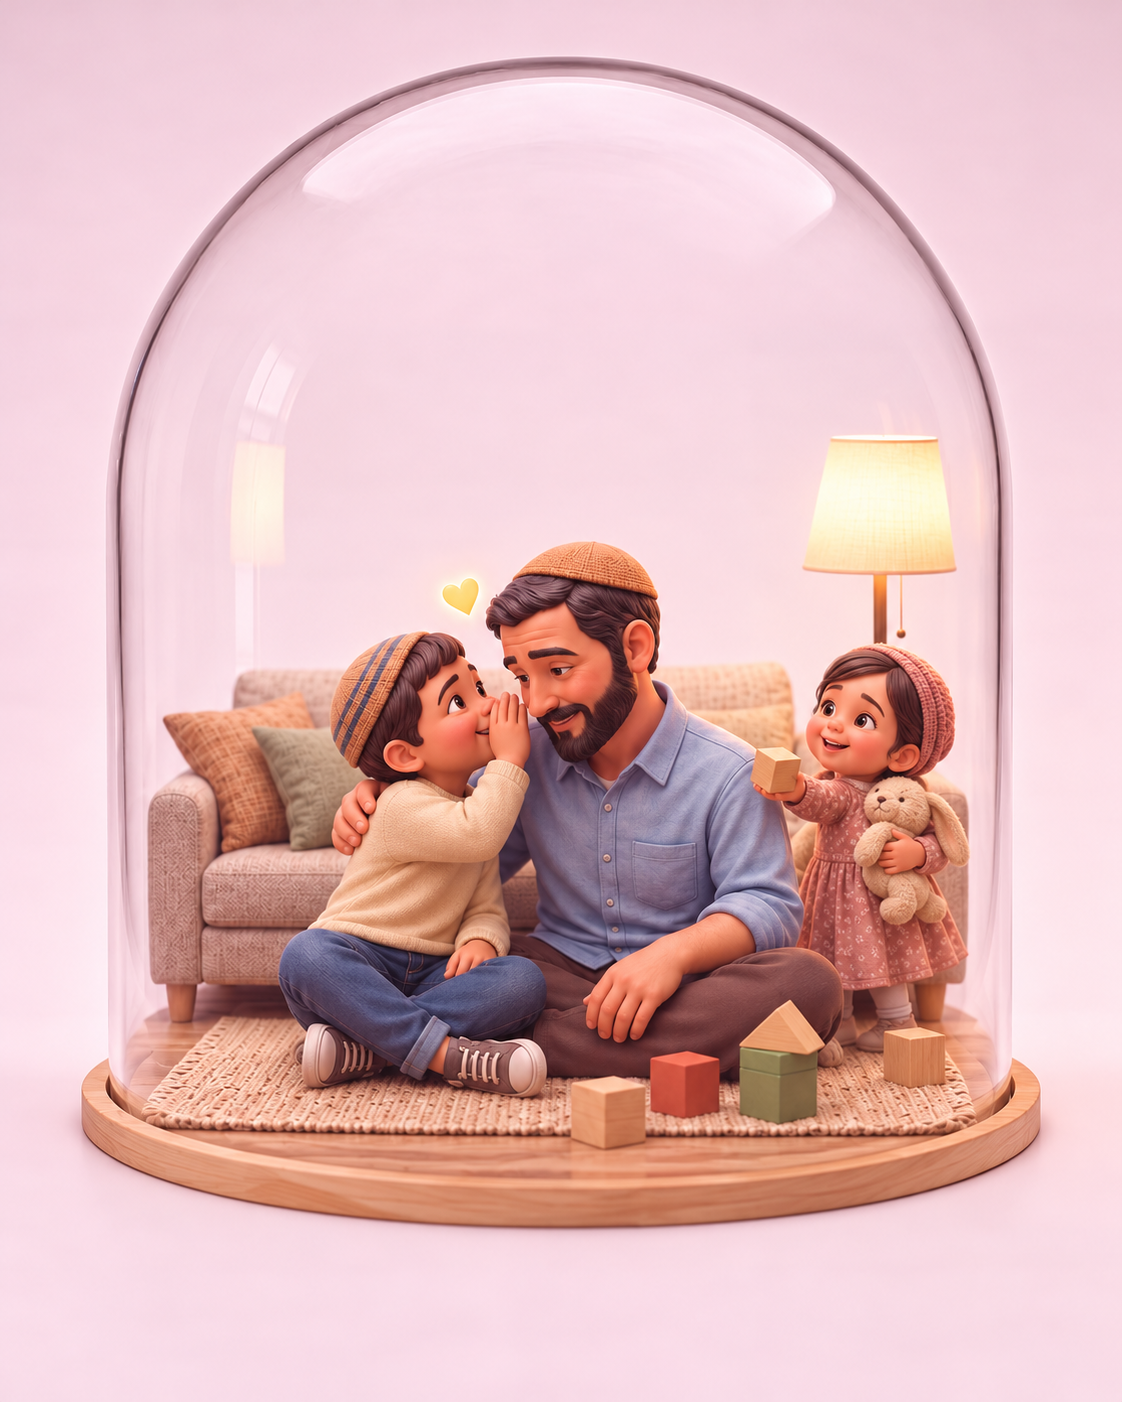
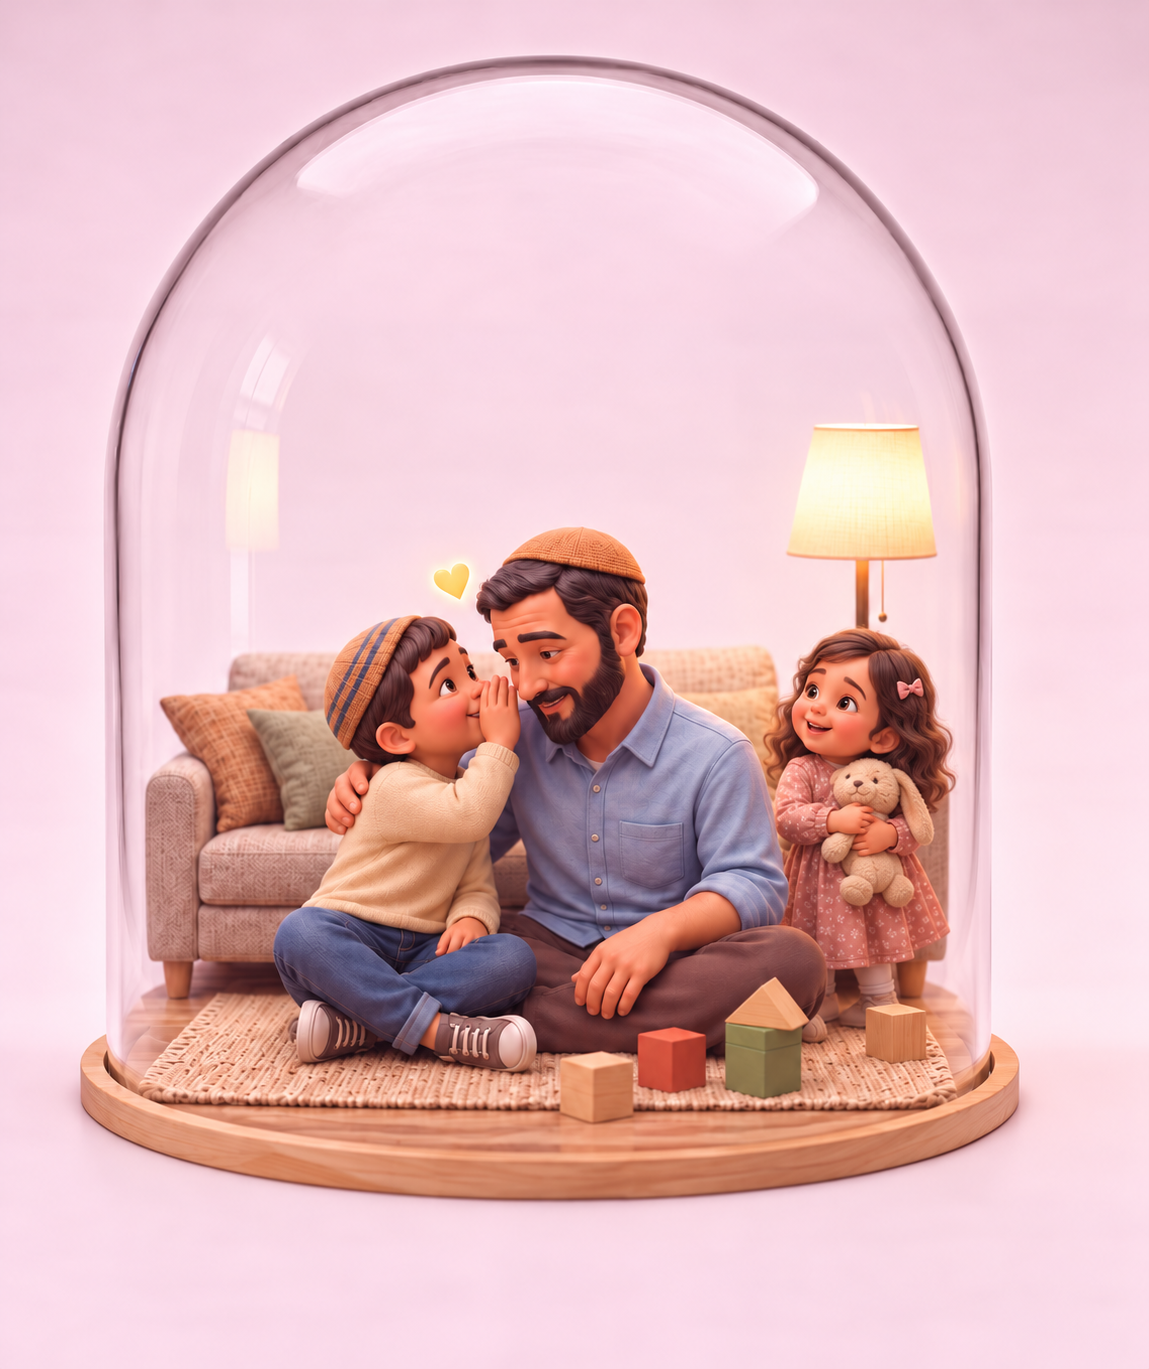
Part B ch.9: fix illustration - sister's hair (no head covering for toddler) and arm pose

Changed region(s): [[0.0624, 0.0307, 0.9358, 0.8897], [0.2184, 0.3375, 0.2496, 0.3682]]

diff --git a/part-b/index.html b/part-b/index.html
@@ -579,7 +579,7 @@ body:not(:has(.sheet[data-page="1"].active)) .a11y-stmt{display:none}
       <div class="fol">42</div>
     </section>
     <section class="sheet art" data-page="43" aria-label="איור לפרק ספר לי דברים טובים עליו">
-      <img src="art-ch09-tell-good.png" alt="ילד לוחש לאביו דבר טוב באוזן, לב זהוב קטן ביניהם, ואחותו ברקע מחבקת דובי ומושיטה קובייה">
+      <img src="art-ch09-tell-good.png?v=2" alt="ילד לוחש לאביו דבר טוב באוזן, לב זהוב קטן ביניהם, ואחותו ברקע מחבקת דובי ומושיטה קובייה">
     </section>
   </main>
   <nav class="ui" aria-label="ניווט בין העמודים">
